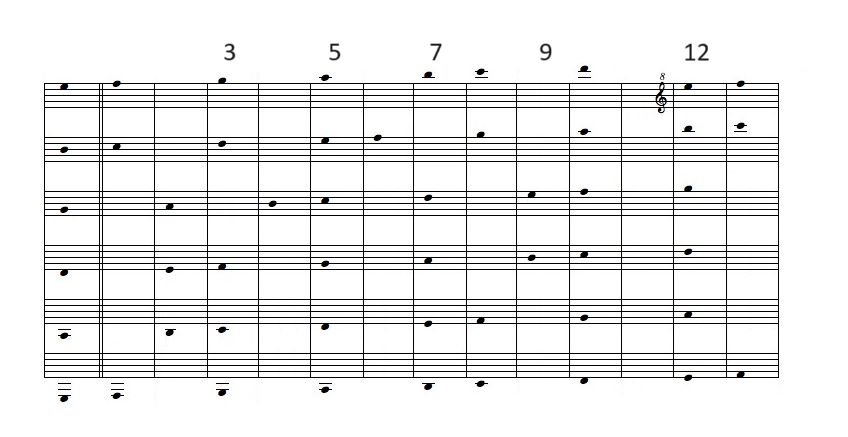
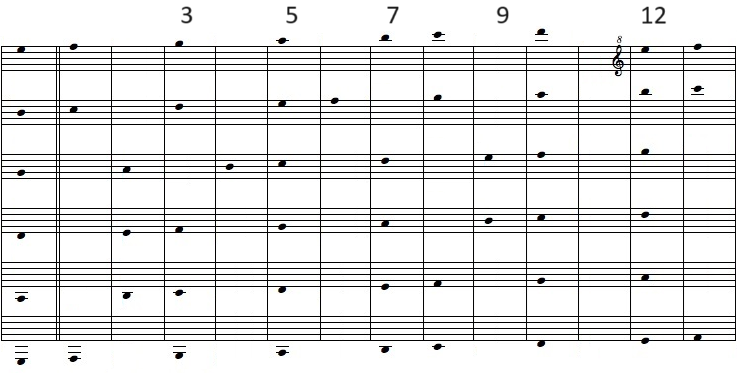
nt

diff --git a/other/music/index.html b/other/music/index.html
@@ -116,11 +116,11 @@ div {
 
 
         <div>
-            <img src="./NOTES-Cmaj.png" />
+            <img src="./NOTES-Cmaj.png" style="width: 937px" />
         </div>
 
         <div>
-            <img src="./fretboard Natural.jpg" />
+            <img src="./fretboard Natural.jpg" style="width: 987px" />
         </div>
 
         <div>
